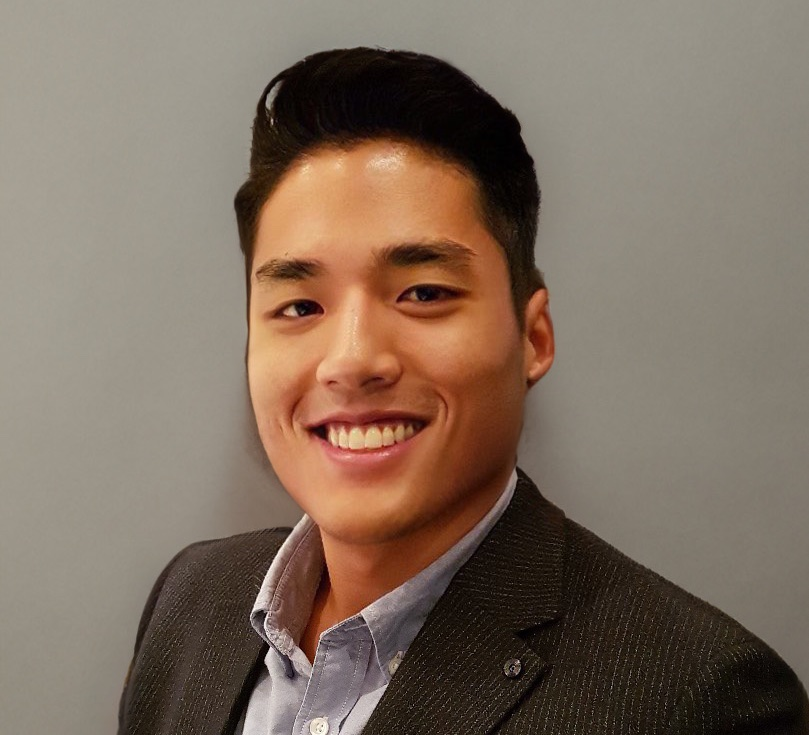
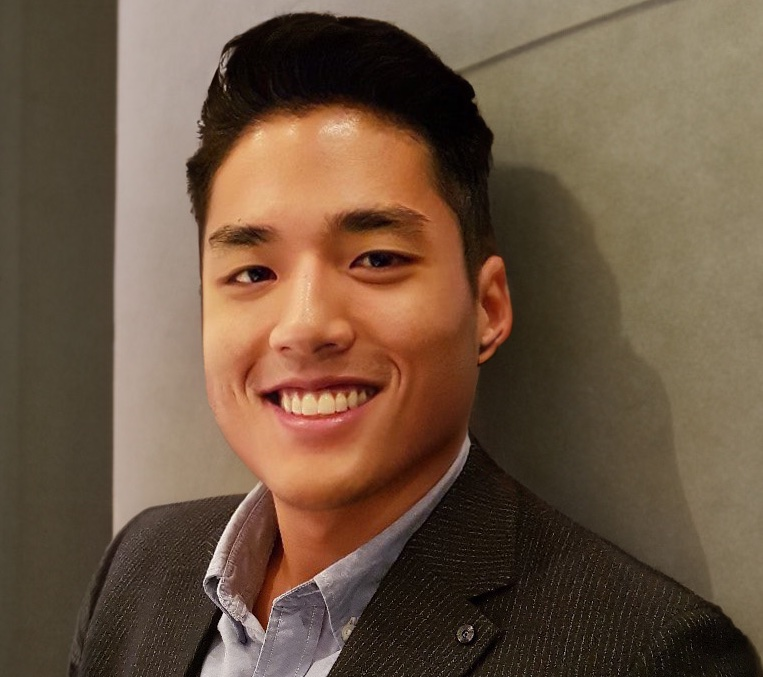
Add files via upload

diff --git a/index.html b/index.html
@@ -200,7 +200,7 @@ Youngki Hong&#39;s Website
                     <div class="column is-one-third has-text-centered">
                         
                         
-                        <img class="img-responsive avatar" src="https://youngkidhong.github.io/home/YH_hu25d333fcded103db2f52f7476cb1420a_136753_320x0_resize_q75_box.jpg" alt="YH.jpg">
+                        <img class="img-responsive avatar" src="https://youngkidhong.github.io/home/YH_hu25d333fcded103db2f52f7476cb1420a_135384_320x0_resize_q75_box.jpg" alt="YH.jpg">
                         
                         
                     </div>
